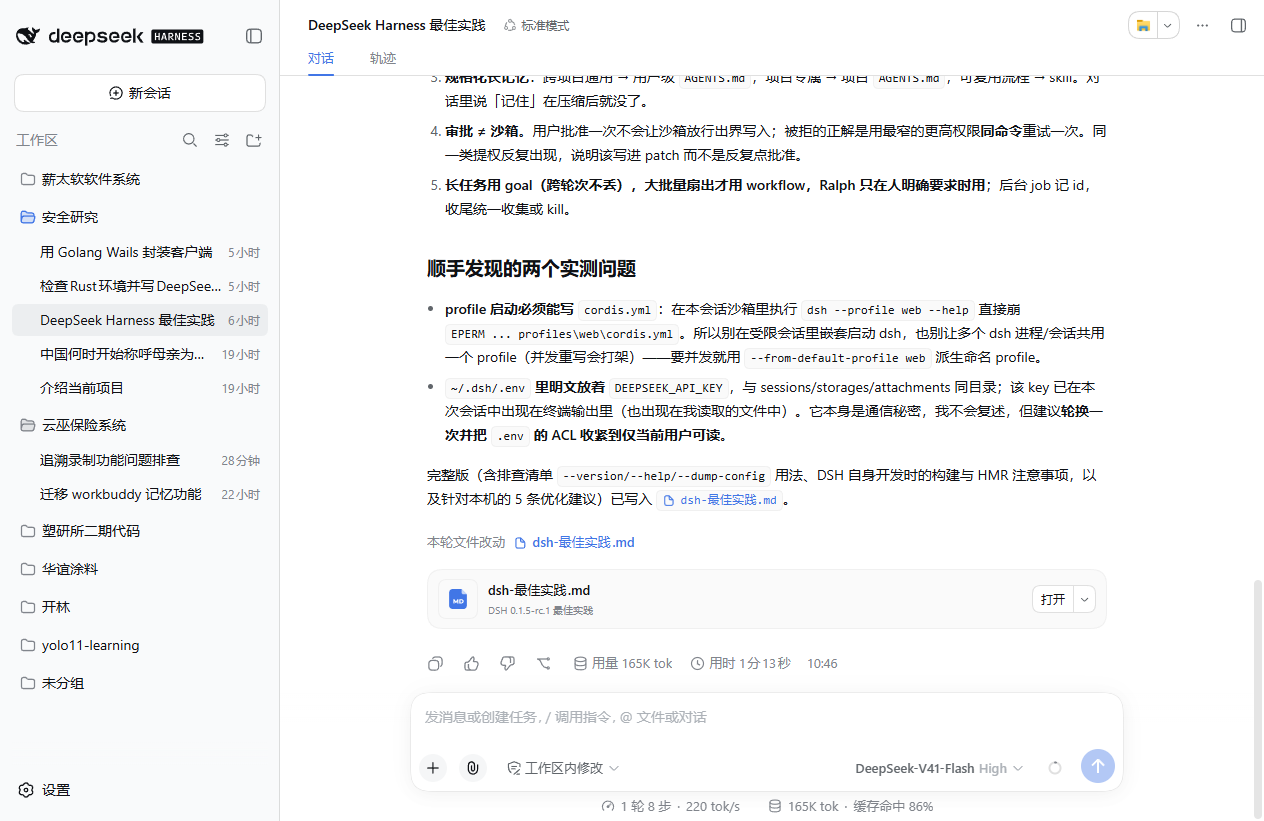
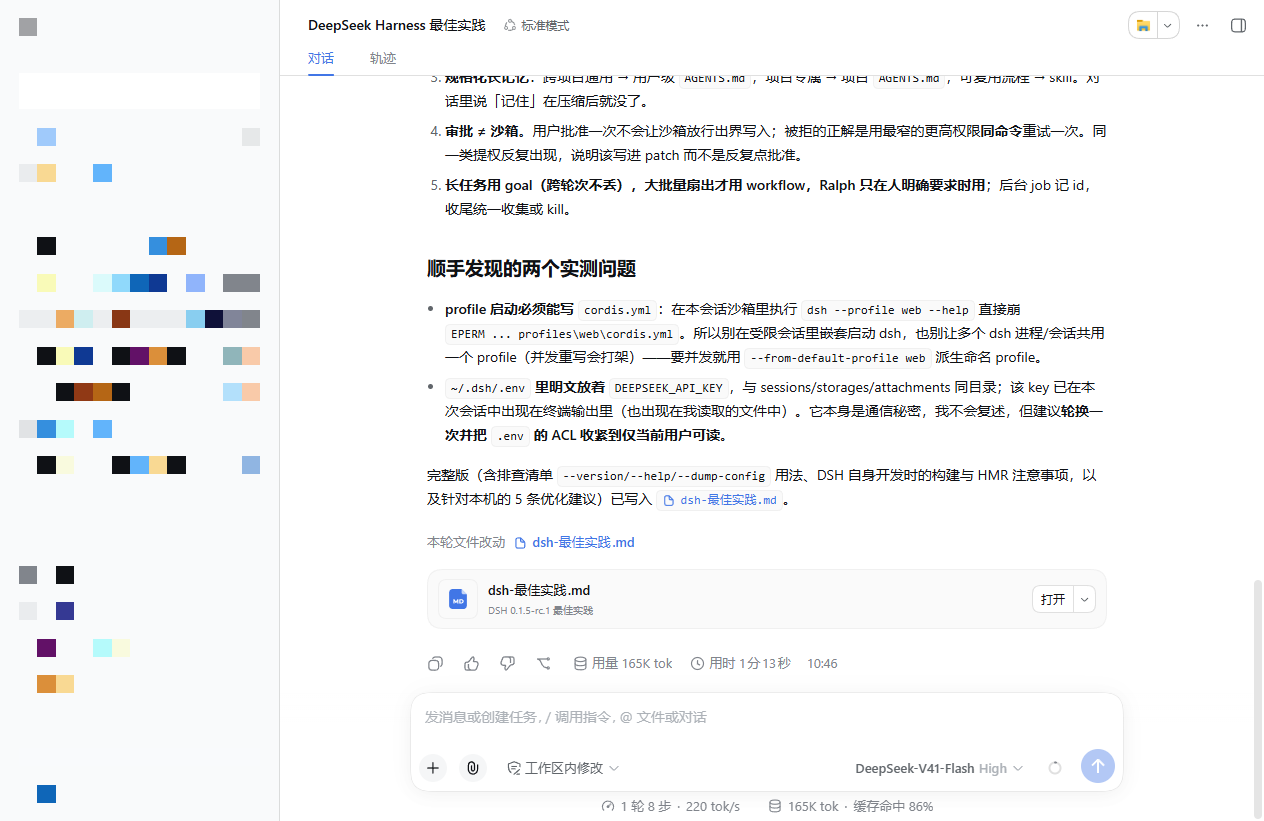
docs: 截图左侧会话列表打码
界面截图左侧是会话 / 工作区列表，会带出个人会话标题与项目名，
不适合直接发到公开仓库。

- diag_screenshot.py 增加自动打码：探测左侧面板宽度（找第一处竖向边界）
  后整条打 18px 马赛克；支持 --raw（保留原样，仅供自查）、
  --mask-only（对已有截图重新打码）、--panel-width（手动指定宽度）
- 重新生成 docs/screenshot.png，左侧 0~279px 已打码
- README 中英双版补一句说明，免得读者看到马赛克困惑

diff --git a/scripts/diag_screenshot.py b/scripts/diag_screenshot.py
@@ -3,13 +3,22 @@
 用 PrintWindow(PW_RENDERFULLCONTENT) 抓取窗口内容 —— WebView2 是 DirectComposition
 渲染的，普通 BitBlt 会截到黑块，必须带这个标志。
 
-用法：python diag_screenshot.py [输出路径]
+**左侧面板会自动打码**：dsh 界面左侧是会话 / 工作区列表，会带出用户的会话标题、
+项目名等隐私信息，直接发到公开仓库不合适。打码宽度是自动探测的（找第一处竖向边界），
+也可以用 --panel-width 手动指定。
+
+用法：
+  python diag_screenshot.py                 截图 + 自动给左侧面板打码
+  python diag_screenshot.py --raw           截图但保留原样（仅供自己查看，勿公开）
+  python diag_screenshot.py --mask-only     只对已有截图重新打码
+  python diag_screenshot.py --panel-width 320   手动指定左侧面板宽度
 """
 
 import ctypes
 import os
 import sys
 import time
+from collections import Counter
 from ctypes import wintypes
 
 from PIL import Image
@@ -21,6 +30,55 @@ gdi32 = ctypes.WinDLL("gdi32", use_last_error=True)
 
 TITLE = "DSH Desktop"
 PW_RENDERFULLCONTENT = 0x00000002
+
+MOSAIC_BLOCK = 18  # 马赛克块边长（像素），够大才能确保文字不可辨认
+
+
+def color_dist(a, b):
+    return sum(abs(x - y) for x, y in zip(a[:3], b[:3]))
+
+
+def detect_panel_width(img, max_ratio=0.5):
+    """探测左侧面板宽度：从左边缘往右扫，找第一处「大部分行都变色」的竖边界。"""
+    w, h = img.size
+    base = img.getpixel((1, int(h * 0.5)))
+    ys = list(range(int(h * 0.12), int(h * 0.88), 17))
+    for x in range(60, int(w * max_ratio)):
+        changed = sum(1 for y in ys if color_dist(img.getpixel((x, y)), base) > 24)
+        if changed > len(ys) * 0.75:
+            return x
+    return 0
+
+
+def mosaic_panel(img, width):
+    """把左侧 width 像素宽的竖条打上马赛克。"""
+    if width <= 0:
+        return img, 0
+    w, h = img.size
+    width = min(width, w)
+    region = img.crop((0, 0, width, h))
+    small = region.resize(
+        (max(1, width // MOSAIC_BLOCK), max(1, h // MOSAIC_BLOCK)), Image.NEAREST
+    )
+    img.paste(small.resize((width, h), Image.NEAREST), (0, 0))
+    return img, width
+
+
+def find_main_window():
+    found = []
+
+    @ctypes.WINFUNCTYPE(wintypes.BOOL, wintypes.HWND, wintypes.LPARAM)
+    def cb(hwnd, lparam):
+        n = user32.GetWindowTextLengthW(hwnd)
+        if n:
+            buf = ctypes.create_unicode_buffer(n + 1)
+            user32.GetWindowTextW(hwnd, buf, n + 1)
+            if buf.value == TITLE and user32.IsWindowVisible(hwnd):
+                found.append(hwnd)
+        return True
+
+    user32.EnumWindows(cb, 0)
+    return found[0] if found else None
 
 
 class BITMAPINFOHEADER(ctypes.Structure):
@@ -41,23 +99,6 @@ class BITMAPINFOHEADER(ctypes.Structure):
 
 class BITMAPINFO(ctypes.Structure):
     _fields_ = [("bmiHeader", BITMAPINFOHEADER), ("bmiColors", wintypes.DWORD * 3)]
-
-
-def find_main_window():
-    found = []
-
-    @ctypes.WINFUNCTYPE(wintypes.BOOL, wintypes.HWND, wintypes.LPARAM)
-    def cb(hwnd, lparam):
-        n = user32.GetWindowTextLengthW(hwnd)
-        if n:
-            buf = ctypes.create_unicode_buffer(n + 1)
-            user32.GetWindowTextW(hwnd, buf, n + 1)
-            if buf.value == TITLE and user32.IsWindowVisible(hwnd):
-                found.append(hwnd)
-        return True
-
-    user32.EnumWindows(cb, 0)
-    return found[0] if found else None
 
 
 def capture(hwnd):
@@ -108,19 +149,46 @@ def capture(hwnd):
 
 
 def main():
-    out = sys.argv[1] if len(sys.argv) > 1 else os.path.join(
+    args = sys.argv[1:]
+    raw = "--raw" in args
+    mask_only = "--mask-only" in args
+    forced_width = None
+    if "--panel-width" in args:
+        idx = args.index("--panel-width")
+        if idx + 1 < len(args):
+            forced_width = int(args[idx + 1])
+
+    positional = [a for a in args if not a.startswith("--")]
+    # 去掉 --panel-width 后面的数值参数
+    if forced_width is not None and str(forced_width) in positional:
+        positional.remove(str(forced_width))
+    out = positional[0] if positional else os.path.join(
         os.path.dirname(os.path.dirname(os.path.abspath(__file__))), "docs", "screenshot.png")
 
-    hwnd = find_main_window()
-    if not hwnd:
-        print("未找到 DSH Desktop 窗口（应用没在运行？）")
-        return 1
+    if mask_only:
+        if not os.path.exists(out):
+            print("找不到已有截图:", out)
+            return 1
+        img = Image.open(out).convert("RGB")
+    else:
+        hwnd = find_main_window()
+        if not hwnd:
+            print("未找到 DSH Desktop 窗口（应用没在运行？）")
+            return 1
 
-    user32.ShowWindow(hwnd, 9)  # SW_RESTORE
-    user32.SetForegroundWindow(hwnd)
-    time.sleep(1.5)
+        user32.ShowWindow(hwnd, 9)  # SW_RESTORE
+        user32.SetForegroundWindow(hwnd)
+        time.sleep(1.5)
+        img = capture(hwnd)
 
-    img = capture(hwnd)
+    # 给左侧面板（会话 / 工作区菜单）打码，避免把个人会话内容发到公开仓库
+    if raw:
+        print("⚠ --raw：保留原样输出，含个人信息，请勿直接公开")
+        panel_w = 0
+    else:
+        panel_w = forced_width or detect_panel_width(img)
+        img, panel_w = mosaic_panel(img, panel_w)
+
     os.makedirs(os.path.dirname(out), exist_ok=True)
     img.save(out)
 
@@ -130,6 +198,8 @@ def main():
     bright = sum(1 for r, g, b in pixels if r + g + b > 90)
     ratio = bright / len(pixels)
     print(f"written: {out} size={img.size} 非黑像素占比={ratio:.2%}")
+    if panel_w:
+        print(f"左侧面板已打码：0~{panel_w}px（块大小 {MOSAIC_BLOCK}px）")
     if ratio < 0.15:
         print("⚠ 画面接近全黑，可能是 WebView2 未渲染或窗口被遮挡")
         return 2

diff --git a/README.md b/README.md
@@ -33,6 +33,8 @@ dsh 用起来要在终端里敲 `dsh web`，然后自己复制它打印的带令
 
 ![界面截图](docs/screenshot.png)
 
+<sub>左侧会话列表已打码处理</sub>
+
 ## 快速开始
 
 ```bash

diff --git a/README.en.md b/README.en.md
@@ -33,6 +33,8 @@ So this shell does it for you: double-click the icon, it launches dsh, waits unt
 
 ![Screenshot](docs/screenshot.png)
 
+<sub>Sidebar masked for privacy.</sub>
+
 ## Quick start
 
 ```bash
